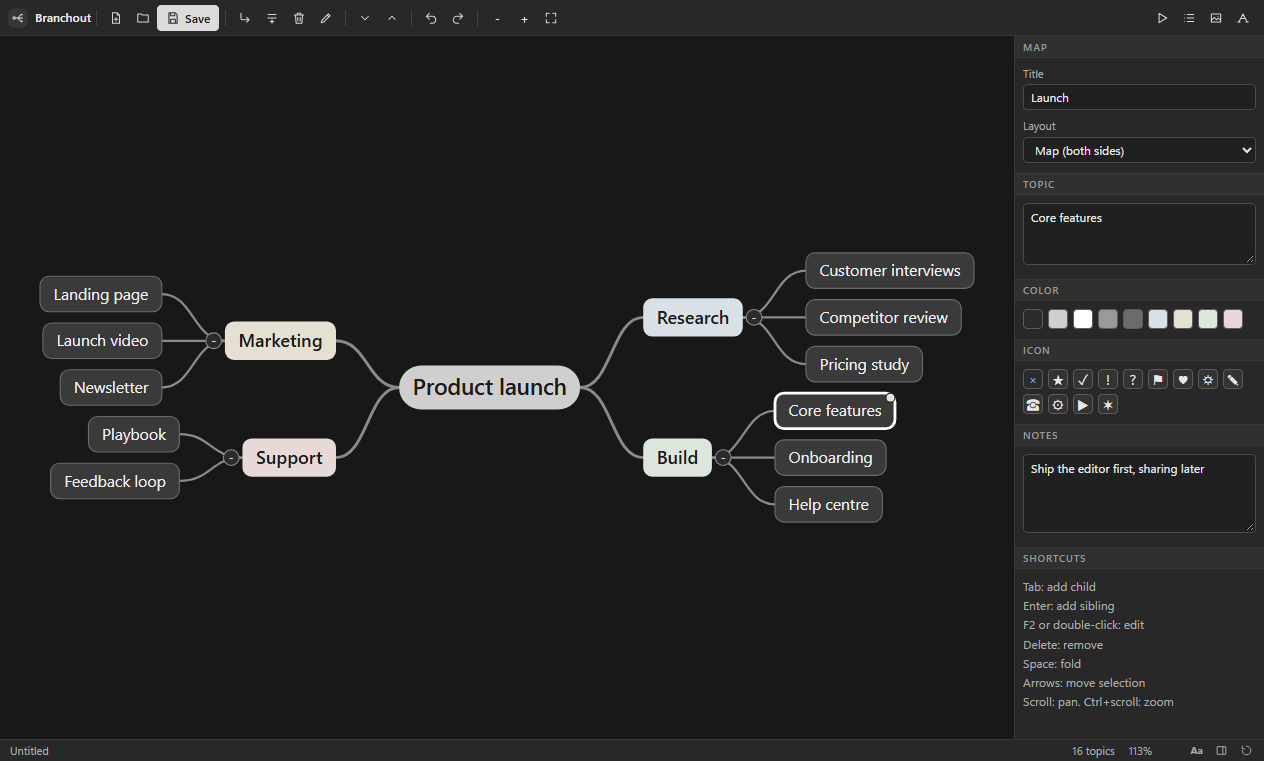
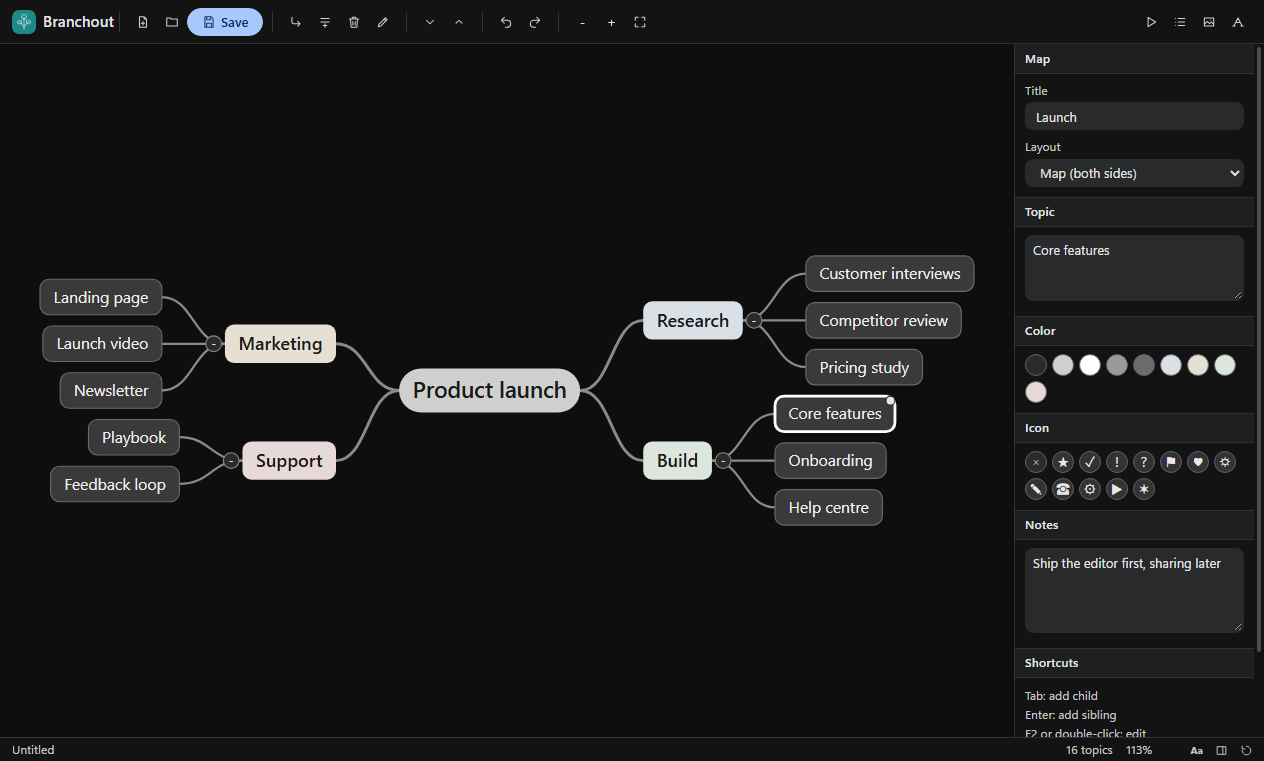
fix: Branchout 1.0.13
New Google-style look: charcoal theme, pill buttons, blue accent, colour app logo. Refreshed README and screenshots.

diff --git a/renderer/lookout.css b/renderer/lookout.css
@@ -1,68 +1,69 @@
-/* Lookout gray UI kit v3: compact pro workspace, flat, no hue. Shared by every Lookout app. */
+/* Lookout UI kit v4: Google-style dark (AI Studio / Colab / Gemini): soft surfaces, pill buttons, blue accent. Shared by every Lookout app. */
 :root{
-  --bg:#202020; --bg-2:#282828; --bg-3:#303030; --bg-4:#3a3a3a; --stage:#181818;
-  --line:#383838; --line-2:#4a4a4a; --line-3:#5c5c5c;
-  --text:#e8e8e8; --text-2:#ababab; --text-3:#9a9a9a;
-  --accent:#dcdcdc; --accent-ink:#1b1b1b; --focus:#a0a0a0;
-  --radius:4px; --h:26px; --pad:8px;
-  --font:"Segoe UI Variable Text","Segoe UI",system-ui,-apple-system,sans-serif; --mono:Consolas,"Cascadia Mono",monospace;
+  --bg:#131314; --bg-2:#1e1f20; --bg-3:#282a2c; --bg-4:#333537; --stage:#0e0e0f;
+  --line:#2f3133; --line-2:#444746; --line-3:#5f6368;
+  --text:#e3e3e3; --text-2:#c4c7c5; --text-3:#9aa0a6;
+  --accent:#a8c7fa; --accent-ink:#062e6f; --accent-2:#0b57d0; --accent-soft:#2b3a55; --focus:#a8c7fa;
+  --radius:8px; --h:28px; --pad:10px;
+  --font:"Google Sans Text","Google Sans",Roboto,"Segoe UI Variable Text","Segoe UI",system-ui,-apple-system,sans-serif; --mono:Consolas,"Cascadia Mono",monospace;
 }
 *{box-sizing:border-box;margin:0;padding:0}
-html,body{height:100%;background:var(--bg);color:var(--text);font:12px/1.4 var(--font);overflow:hidden;user-select:none;-webkit-font-smoothing:antialiased}
+html,body{height:100%;background:var(--bg);color:var(--text);font:13px/1.45 var(--font);overflow:hidden;user-select:none;-webkit-font-smoothing:antialiased}
 button,input,select,textarea{font:inherit;color:inherit}
 .app{display:grid;grid-template-rows:auto 1fr auto;height:100vh}
 
 /* ---------- toolbar ---------- */
-.toolbar{display:flex;align-items:center;gap:1px;padding:4px 8px;min-height:36px;background:var(--bg-2);border-bottom:1px solid var(--line);flex-wrap:nowrap;overflow-x:auto;overflow-y:hidden;scrollbar-width:none}
+.toolbar{display:flex;align-items:center;gap:1px;padding:6px 12px;min-height:44px;background:var(--bg);border-bottom:1px solid var(--line);flex-wrap:nowrap;overflow-x:auto;overflow-y:hidden;scrollbar-width:none}
 .toolbar::-webkit-scrollbar{height:0}
 .toolbar>*{flex-shrink:0}
-.toolbar .sep{width:1px;height:16px;align-self:center;background:var(--line-2);margin:0 5px;opacity:.8}
+.toolbar .sep{width:1px;height:20px;align-self:center;background:var(--line-2);margin:0 8px;opacity:.7}
 .toolbar .grow{flex:1 1 auto;min-width:8px}
 .toolbar input[type=text],.toolbar input[type=search]{width:150px}
-.brand{display:flex;align-items:center;gap:7px;padding-right:2px;margin-right:2px;font-weight:600;font-size:12px;color:var(--text)}
-.brand img{width:20px;height:20px;border-radius:5px;display:block}
+.brand{display:flex;align-items:center;gap:7px;padding-right:2px;margin-right:2px;font-weight:500;font-size:15px;letter-spacing:.1px;color:var(--text)}
+.brand img{width:24px;height:24px;border-radius:7px;display:block}
 .brand+.sep{margin-left:0}
 
 /* ---------- buttons ---------- */
-.btn{display:inline-flex;align-items:center;justify-content:center;gap:5px;height:var(--h);padding:0 8px;background:var(--bg-3);border:1px solid var(--line);border-radius:var(--radius);cursor:pointer;white-space:nowrap;line-height:1;transition:background .08s,border-color .08s}
-.btn:hover{background:var(--bg-4);border-color:var(--line-2)}
-.btn:active{background:#262626}
+.btn{display:inline-flex;align-items:center;justify-content:center;gap:5px;height:var(--h);padding:0 14px;background:var(--bg-3);border:1px solid transparent;border-radius:999px;cursor:pointer;white-space:nowrap;line-height:1;transition:background .08s,border-color .08s}
+.btn:hover{background:var(--bg-4)}
+.btn:active{background:#3c3f41}
 .btn:focus-visible,input:focus-visible,select:focus-visible,textarea:focus-visible,[tabindex]:focus-visible{outline:2px solid var(--focus);outline-offset:1px}
-.btn.primary{background:var(--accent);color:var(--accent-ink);border-color:var(--accent);font-weight:600}
-.btn.primary:hover{background:#ececec;border-color:#ececec}
-.btn.on{background:#4a4a4a;border-color:var(--line-3);box-shadow:inset 0 0 0 1px #6a6a6a}
+.btn.primary{background:var(--accent);color:var(--accent-ink);border-color:var(--accent);font-weight:500}
+.btn.primary:hover{background:#c2d7fb;border-color:#c2d7fb;box-shadow:0 1px 3px rgba(0,0,0,.4)}
+.btn.on{background:var(--accent-soft);color:var(--accent);border-color:transparent}
 .btn[disabled]{opacity:.45;pointer-events:none}
-.btn.icon{padding:0;width:var(--h);min-width:var(--h)}
+.btn.icon{padding:0;width:var(--h);min-width:var(--h);border-radius:50%}
 .btn .ic{width:14px;height:14px;flex-shrink:0;display:block;opacity:.92}
 .toolbar .btn:not(.primary):not(.on){background:transparent;border-color:transparent}
-.toolbar .btn:not(.primary):not(.on):hover{background:var(--bg-4);border-color:var(--line-2)}
+.toolbar .btn:not(.primary):not(.on):hover{background:var(--bg-3);border-color:transparent}
 
 /* icon-only toolbar: names live in the tooltip (Aa in the status bar brings the labels back) */
-.toolbar:not(.lbl) .btn:not(.primary):has(> svg.ic),.toolbar.c3 .btn:has(> svg.ic){font-size:0;gap:0;width:var(--h);padding:0}
+.toolbar:not(.lbl) .btn:not(.primary):has(> svg.ic),.toolbar.c3 .btn:has(> svg.ic){font-size:0;gap:0;width:var(--h);padding:0;border-radius:50%}
 .toolbar.c2 .brand span{display:none}
 .toolbar.c2 input[type=text],.toolbar.c2 input[type=search]{width:110px}
 .toolbar.lbl.c1 .btn.minor:not(.primary):has(> svg.ic),.toolbar.lbl.c2 .btn:not(.primary):has(> svg.ic){font-size:0;gap:0;width:var(--h);padding:0}
 
 /* ---------- fields ---------- */
-input[type=text],input[type=number],input[type=search],input[type=date],select,textarea{background:var(--bg);border:1px solid var(--line-2);border-radius:var(--radius);padding:0 7px;height:var(--h);user-select:text;min-width:0;font-size:12px}
+input[type=text],input[type=number],input[type=search],input[type=date],select,textarea{background:var(--bg-3);border:1px solid transparent;border-radius:var(--radius);padding:0 10px;height:var(--h);user-select:text;min-width:0;font-size:13px}
 input[type=number],.frow>input,.field>input{font-variant-numeric:tabular-nums}
 textarea{height:auto;padding:5px 7px;resize:vertical;line-height:1.4}
 select{padding-right:4px;cursor:pointer}
-input:hover,select:hover,textarea:hover{border-color:var(--line-3)}
-input[type=range]{accent-color:#c8c8c8;height:var(--h)}
-input[type=checkbox]{accent-color:#c8c8c8;width:14px;height:14px;cursor:pointer}
-input[type=color]{border:1px solid var(--line-2);background:var(--bg);width:26px;height:var(--h);padding:2px;border-radius:var(--radius)}
-label.field{display:flex;flex-direction:column;gap:3px;color:var(--text-2);font-size:11px}
-label.field>input,label.field>select,label.field>textarea{width:100%;color:var(--text);font-size:12px}
+input:hover,select:hover,textarea:hover{background:var(--bg-4)}
+input[type=text]:focus,input[type=number]:focus,input[type=search]:focus,input[type=date]:focus,select:focus,textarea:focus{outline:none;border-color:var(--accent);background:var(--bg-2)}
+input[type=range]{accent-color:#a8c7fa;height:var(--h)}
+input[type=checkbox]{accent-color:#a8c7fa;width:14px;height:14px;cursor:pointer}
+input[type=color]{border:1px solid var(--line-2);background:var(--bg-3);width:26px;height:var(--h);padding:2px;border-radius:var(--radius)}
+label.field{display:flex;flex-direction:column;gap:3px;color:var(--text-2);font-size:12px}
+label.field>input,label.field>select,label.field>textarea{width:100%;color:var(--text);font-size:13px}
 
 /* ---------- layout ---------- */
 .main{display:flex;min-height:0;min-width:0}
-.sidebar{width:210px;background:var(--bg-2);border-right:1px solid var(--line);overflow:auto;padding:var(--pad);flex-shrink:0;min-width:0}
+.sidebar{width:210px;background:var(--bg);border-right:1px solid var(--line);overflow:auto;padding:var(--pad);flex-shrink:0;min-width:0}
 .sidebar.right{border-right:0;border-left:1px solid var(--line);width:250px}
 .sidebar.collapsed{display:none!important}
-.sidebar h3,.panel-title{font-size:10px;text-transform:uppercase;letter-spacing:.09em;color:var(--text-3);font-weight:600}
+.sidebar h3,.panel-title{font-size:12px;letter-spacing:.2px;color:var(--text-2);font-weight:500}
 .sidebar h3{margin:12px 0 6px}
-.sidebar>h3{display:flex;align-items:center;gap:6px;height:22px;margin:10px calc(var(--pad) * -1) 8px;padding:0 var(--pad);background:var(--bg-3);border-top:1px solid var(--line);border-bottom:1px solid var(--line)}
+.sidebar>h3{display:flex;align-items:center;gap:6px;height:30px;margin:10px calc(var(--pad) * -1) 8px;padding:0 var(--pad);background:var(--bg-2);border-top:1px solid var(--line);border-bottom:1px solid var(--line);color:var(--text)}
 .sidebar>h3:first-child{margin-top:calc(var(--pad) * -1);border-top:0}
 .panel-title{margin:12px 0 6px}
 .sidebar input[type=text],.sidebar input[type=search],.sidebar select,.sidebar textarea{width:100%}
@@ -73,20 +74,20 @@ label.field>input,label.field>select,label.field>textarea{width:100%;color:var(-
 .sidebar .btn{width:auto}
 .sidebar>.btn{width:100%;margin-bottom:5px}
 .stage{flex:1;min-width:0;min-height:0;position:relative;background:var(--stage);overflow:auto}
-.status{display:flex;gap:14px;align-items:center;height:22px;padding:0 10px;background:var(--bg-2);border-top:1px solid var(--line);color:var(--text-2);font-size:11px;white-space:nowrap;overflow:hidden}
+.status{display:flex;gap:14px;align-items:center;height:24px;padding:0 12px;background:var(--bg);border-top:1px solid var(--line);color:var(--text-2);font-size:12px;white-space:nowrap;overflow:hidden}
 .status .grow{flex:1}
 body.hasdock .status{padding-right:112px}
-.wbs{position:fixed;right:6px;bottom:2px;height:18px;display:flex;gap:2px;z-index:8;background:var(--bg-2);padding-left:6px}
+.wbs{position:fixed;right:6px;bottom:2px;height:18px;display:flex;gap:2px;z-index:8;background:var(--bg);padding-left:6px}
 .wbs[hidden]{display:none}
-.wbs .wb{height:18px;min-width:22px;padding:0 4px;display:inline-flex;align-items:center;justify-content:center;font-size:10px;font-weight:700;line-height:1;background:transparent;border:1px solid transparent;border-radius:3px;color:var(--text-2);cursor:pointer}
+.wbs .wb{height:18px;min-width:22px;padding:0 4px;display:inline-flex;align-items:center;justify-content:center;font-size:10px;font-weight:700;line-height:1;background:transparent;border:1px solid transparent;border-radius:6px;color:var(--text-2);cursor:pointer}
 .wbs .wb[hidden]{display:none}
 .wbs .wb svg{width:13px;height:13px;display:block}
-.wbs .wb:hover{background:var(--bg-4);border-color:var(--line-2);color:var(--text)}
-.wbs .wb.on{background:var(--bg-4);border-color:var(--line-3);color:var(--text)}
+.wbs .wb:hover{background:var(--bg-3);color:var(--text)}
+.wbs .wb.on{background:var(--accent-soft);color:var(--accent)}
 .list{display:flex;flex-direction:column;gap:1px}
-.list .item{padding:3px 6px;border-radius:var(--radius);cursor:pointer;border:1px solid transparent;display:flex;gap:6px;align-items:center;min-height:26px}
+.list .item{padding:3px 10px;border-radius:999px;cursor:pointer;border:1px solid transparent;display:flex;gap:6px;align-items:center;min-height:26px}
 .list .item:hover{background:var(--bg-3)}
-.list .item.sel{background:var(--bg-4);border-color:var(--line-2)}
+.list .item.sel{background:var(--accent-soft);color:var(--accent);border-color:transparent}
 .row{display:flex;gap:5px;align-items:center}
 .grow{flex:1 1 auto;min-width:0}
 .brow{display:grid;grid-template-columns:1fr 1fr;gap:5px;margin-bottom:5px}
@@ -99,17 +100,17 @@ body.hasdock .status{padding-right:112px}
 .sidebar .swatches{margin-bottom:8px}
 .list .item .btn{height:22px!important;width:24px!important;padding:0!important;font-size:0!important;gap:0;background:transparent;border-color:transparent;opacity:.55}
 .list .item:hover .btn,.list .item.sel .btn{opacity:1}
-.list .item .btn:hover{background:var(--bg-4);border-color:var(--line-2)}
+.list .item .btn:hover{background:var(--bg-4)}
 .col{display:flex;flex-direction:column;gap:5px}
 .muted{color:var(--text-2)}
 .empty{position:absolute;inset:0;display:flex;flex-direction:column;align-items:center;justify-content:center;gap:10px;color:var(--text-3);text-align:center;padding:24px}
-.empty .big{font-size:16px;color:var(--text-2);font-weight:600}
+.empty .big{font-size:20px;color:var(--text);font-weight:400}
 
 /* panel grip: drag to resize, double-click to collapse or restore */
 .grip{position:relative;flex:0 0 5px;width:5px;margin:0 -3px 0 -2px;z-index:6;cursor:col-resize;touch-action:none}
 .grip::after{content:"";position:absolute;top:0;bottom:0;left:2px;width:1px;background:transparent;transition:background .1s}
-.grip:hover::after,.grip.drag::after{background:var(--line-3);width:2px;left:1px}
-.grip.collapsed{flex:0 0 8px;width:8px;margin:0;background:var(--bg-2);border-left:1px solid var(--line);border-right:1px solid var(--line)}
+.grip:hover::after,.grip.drag::after{background:var(--accent);width:2px;left:1px}
+.grip.collapsed{flex:0 0 8px;width:8px;margin:0;background:var(--bg);border-left:1px solid var(--line);border-right:1px solid var(--line)}
 .grip.collapsed::after{left:3px;top:calc(50% - 14px);bottom:auto;height:28px;width:2px;background:var(--line-3);border-radius:2px}
 .grip.collapsed:hover{background:var(--bg-3)}
 body.gripping{cursor:col-resize}
@@ -117,30 +118,30 @@ body.gripping *{cursor:col-resize!important;user-select:none!important}
 
 /* ---------- overlays ---------- */
 .modal-back{position:fixed;inset:0;background:rgba(0,0,0,.6);display:flex;align-items:center;justify-content:center;z-index:50}
-.modal{background:var(--bg-2);border:1px solid var(--line-2);border-radius:8px;min-width:340px;max-width:80vw;max-height:85vh;overflow:auto;padding:16px;display:flex;flex-direction:column;gap:12px;box-shadow:0 18px 50px rgba(0,0,0,.5)}
-.modal h2{font-size:14px;font-weight:600}
-.toast{position:fixed;left:50%;bottom:34px;transform:translateX(-50%);background:var(--bg-4);border:1px solid var(--line-3);padding:7px 14px;border-radius:6px;z-index:60;box-shadow:0 8px 24px rgba(0,0,0,.4)}
-.progress{height:5px;background:var(--bg);border:1px solid var(--line);border-radius:4px;overflow:hidden}
+.modal{background:var(--bg-2);border:0;border-radius:24px;min-width:360px;max-width:80vw;max-height:85vh;overflow:auto;padding:24px;display:flex;flex-direction:column;gap:14px;box-shadow:0 8px 32px rgba(0,0,0,.6)}
+.modal h2{font-size:20px;font-weight:400}
+.toast{position:fixed;left:50%;bottom:34px;transform:translateX(-50%);background:#e3e3e3;color:#1f1f1f;border:0;padding:10px 18px;border-radius:8px;z-index:60;box-shadow:0 8px 24px rgba(0,0,0,.4)}
+.progress{height:6px;background:var(--bg-3);border:0;border-radius:999px;overflow:hidden}
 .progress>i,.progress>div{display:block;height:100%;background:var(--accent);width:0}
 
 /* ---------- tables ---------- */
 table.grid{border-collapse:separate;border-spacing:0;width:100%}
 table.grid th,table.grid td{border-bottom:1px solid var(--line);padding:0 10px;height:30px;text-align:left;vertical-align:middle}
-table.grid th{background:var(--bg-2);color:var(--text-2);font-weight:600;font-size:11px;position:sticky;top:0;z-index:1;height:26px}
-table.grid tbody tr:hover td{background:#242424}
-table.grid tr.sel td{background:#323232}
+table.grid th{background:var(--bg-2);color:var(--text-2);font-weight:500;font-size:12px;position:sticky;top:0;z-index:1;height:26px}
+table.grid tbody tr:hover td{background:var(--bg-2)}
+table.grid tr.sel td{background:var(--accent-soft)}
 table.grid tbody tr{cursor:default}
 table.grid td .btn{height:22px;margin-left:6px;vertical-align:middle}
 table.grid td{white-space:nowrap}
 
 /* ---------- misc ---------- */
 ::-webkit-scrollbar{width:10px;height:10px}
-::-webkit-scrollbar-thumb{background:#454545;border:3px solid transparent;background-clip:padding-box;border-radius:8px}
-::-webkit-scrollbar-thumb:hover{background:#5a5a5a;background-clip:padding-box;border:3px solid transparent}
+::-webkit-scrollbar-thumb{background:#4a4d50;border:3px solid transparent;background-clip:padding-box;border-radius:8px}
+::-webkit-scrollbar-thumb:hover{background:#6b6f73;background-clip:padding-box;border:3px solid transparent}
 ::-webkit-scrollbar-track,::-webkit-scrollbar-corner{background:transparent}
 .swatches{display:flex;flex-wrap:wrap;gap:5px}
-.swatches button{width:20px;height:20px;border:1px solid var(--line-3);border-radius:4px;cursor:pointer;padding:0}
+.swatches button{width:22px;height:22px;border:1px solid var(--line-3);border-radius:50%;cursor:pointer;padding:0}
 .swatches button.on{outline:2px solid var(--accent);outline-offset:2px}
-kbd{font-family:var(--mono);font-size:10px;background:var(--bg-3);border:1px solid var(--line-2);border-bottom-width:2px;border-radius:3px;padding:0 4px}
+kbd{font-family:var(--mono);font-size:10px;background:var(--bg-3);border:1px solid var(--line-2);border-bottom-width:2px;border-radius:4px;padding:0 5px}
 
 input::placeholder,textarea::placeholder{color:var(--text-3);opacity:1}

diff --git a/README.md b/README.md
@@ -1,8 +1,10 @@
-<p align="center"><img src="screenshots/banner.png" alt="Branchout" width="100%"></p>
+<p align="center"><img src="screenshots/logo.png" alt="Branchout" width="128"></p>
 
-<p align="center"><b>Mind maps and outlines</b><br>Version 1.0.3 for Windows · Free · Offline · No account</p>
+<h1 align="center">Branchout</h1>
 
-<p align="center"><a href="https://github.com/plawanpawin-byte/branchout/releases/latest"><b>Download Branchout</b></a> · <a href="https://github.com/plawanpawin-byte/Lookout">All Lookout apps</a></p>
+<p align="center"><b>Mind maps and outlines</b><br>Version 1.0.13 for Windows · Free · Offline · No account</p>
+
+<p align="center"><a href="https://github.com/plawanpawin-byte/branchout/releases/latest"><b>Download Branchout</b></a> · <a href="https://github.com/plawanpawin-byte/lookout-launcher">Lookout launcher</a> · <a href="https://github.com/plawanpawin-byte/Lookout">All Lookout apps</a></p>
 
 ---
 
@@ -12,11 +14,51 @@ Branchout is a mind-mapping app. Start with one idea in the centre, branch out w
 
 ![Branchout](screenshots/01-mind-map.png)
 
-**On this page:** [Screenshots](#see-it-in-action) · [Interface](#the-interface) · [Features](#everything-it-can-do) · [How to use it](#how-to-use-it) · [Shortcuts](#keyboard-shortcuts) · [Formats](#files-and-formats) · [Privacy](#private-by-design) · [Install](#install) · [Questions](#questions)
+**On this page:** [In plain words](#in-plain-words) · [Who it is for](#who-it-is-for) · [Try it in 3 steps](#try-it-in-3-steps) · [Screenshots](#see-it-in-action) · [Features](#everything-it-can-do) · [How to use it](#how-to-use-it) · [Privacy](#private-by-design) · [Install](#install) · [Questions](#questions)
 
-## What is new in 1.0.3
+## In plain words
 
-A refreshed interface: every toolbar button now has a clear line icon, the app's mark sits at the top left, controls share one height and spacing, panels line up in tidy grids, and the toolbar keeps every button reachable on smaller windows by switching less important buttons to icons.
+Branchout is a **mind-mapping** program. A mind map starts with one idea in the middle (for example "Holiday plan"). From it you grow branches ("Flights", "Hotels", "Food"), and from each branch you grow smaller branches. It is a way of thinking that looks like a tree and is much easier to scan than a long list.
+
+You build it mostly from the keyboard: press a key to add a topic next to or under the current one, type a name, and keep going. You can add notes, colours and icons, **collapse** branches you are not working on, and finally turn the whole map into a picture or a plain-text **outline** you can paste into an email.
+
+**Not for:** Branchout shows one idea tree. For boxes and arrows between any shapes use Chartout, and for tasks with dates use Planout.
+
+## Who it is for
+
+- **Anyone planning something**: a trip, an essay, a presentation, a project.
+- **Students** summarising a chapter as a map for revision.
+- **Writers** who start with ideas and want to turn them into a structured outline.
+
+## Try it in 3 steps
+
+1. Open Branchout and type a name for the centre topic.
+2. Press **Tab** to add a child topic under the selected one, or **Enter** to add a sibling beside it.
+3. Choose an outline export to see your map as an indented list of text.
+
+## What is new in 1.0.13
+
+A new look inspired by Google's own tools (AI Studio, Colab, Gemini): a calm dark charcoal theme, rounded pill buttons, a soft blue accent and roomier spacing. The app icon is now a colour logo so you can find Branchout at a glance in the Start menu and in the Lookout launcher. All screenshots below were taken again with the new look.
+
+## In plain words
+
+Branchout is a **mind-mapping** program. A mind map starts with one idea in the middle (for example "Holiday plan"). From it you grow branches ("Flights", "Hotels", "Food"), and from each branch you grow smaller branches. It is a way of thinking that looks like a tree and is much easier to scan than a long list.
+
+You build it mostly from the keyboard: press a key to add a topic next to or under the current one, type a name, and keep going. You can add notes, colours and icons, **collapse** branches you are not working on, and finally turn the whole map into a picture or a plain-text **outline** you can paste into an email.
+
+**Not for:** Branchout shows one idea tree. For boxes and arrows between any shapes use Chartout, and for tasks with dates use Planout.
+
+## Who it is for
+
+- **Anyone planning something**: a trip, an essay, a presentation, a project.
+- **Students** summarising a chapter as a map for revision.
+- **Writers** who start with ideas and want to turn them into a structured outline.
+
+## Try it in 3 steps
+
+1. Open Branchout and type a name for the centre topic.
+2. Press **Tab** to add a child topic under the selected one, or **Enter** to add a sibling beside it.
+3. Choose an outline export to see your map as an indented list of text.
 
 ## See it in action
 
@@ -115,7 +157,7 @@ Saves .branchout files. Exports PNG, SVG and a Markdown or plain text outline.
 
 ## Install
 
-1. Open the [latest release](https://github.com/plawanpawin-byte/branchout/releases/latest) and download the file named **Branchout-Setup-** followed by the version number and **.exe**. You can also install it from the [Lookout launcher](https://github.com/${OWNER}/lookout-launcher), which keeps it up to date.
+1. Open the [latest release](https://github.com/plawanpawin-byte/branchout/releases/latest) and download the file named **Branchout-Setup-** followed by the version number and **.exe**. You can also install it from the [Lookout launcher](https://github.com/plawanpawin-byte/lookout-launcher), which keeps it up to date.
 2. Run the installer. It installs just for you, so it does not ask for administrator rights.
 3. Windows may show a blue **Windows protected your PC** screen because these installers are not signed with a paid certificate. Click **More info**, then **Run anyway**.
 4. Open Branchout from the Start menu.
@@ -130,18 +172,40 @@ Hundreds are comfortable. The counter in the bottom bar shows how many you have.
 **Can I import from another mind-map app?**  
 Not yet. You can type or paste your topics in as you go.
 
+**What is an outline export?**  
+A text version of your map where each level is indented, ready to paste into a document or email.
+
+**How do I rename a topic?**  
+Select it and press F2, or double-click it.
+
+**How do I keep a big map readable?**  
+Select a branch and press Space to fold it away. Press Space again to open it.
+
+**What is an outline export?**  
+A text version of your map where each level is indented, ready to paste into a document or email.
+
+**How do I rename a topic?**  
+Select it and press F2, or double-click it.
+
+**How do I keep a big map readable?**  
+Select a branch and press Space to fold it away. Press Space again to open it.
+
 ## About Lookout
 
-Branchout belongs to the **[Lookout](https://github.com/plawanpawin-byte/Lookout)** family: ten small, private Windows apps for documents and media, all with the same calm grey look and the same promise that your files stay yours. Install and update them together with the [Lookout launcher](https://github.com/plawanpawin-byte/lookout-launcher).
+Branchout is part of **[Lookout](https://github.com/plawanpawin-byte/Lookout)**: ten small, private Windows apps for documents and media that share one look and one promise, that your files stay on your computer. Install and update them together with the [Lookout launcher](https://github.com/plawanpawin-byte/lookout-launcher).
 
-- **[Pageout](https://github.com/plawanpawin-byte/pageout)**: read, annotate and sign pdfs
-- **[Chartout](https://github.com/plawanpawin-byte/chartout)**: flowcharts and diagrams
-- **[Planout](https://github.com/plawanpawin-byte/planout)**: plans and gantt timelines
-- **[Frameout](https://github.com/plawanpawin-byte/frameout)**: screen design and prototypes
-- **[Cutout](https://github.com/plawanpawin-byte/cutout)**: video editing on a timeline
-- **[Shiftout](https://github.com/plawanpawin-byte/shiftout)**: convert and compress media
-- **[Castout](https://github.com/plawanpawin-byte/castout)**: record your screen
-- **[Mendout](https://github.com/plawanpawin-byte/mendout)**: repair damaged media
-- **[Tuneout](https://github.com/plawanpawin-byte/tuneout)**: record and edit audio
+| | App | What it is for | Code |
+| --- | --- | --- | --- |
+| <img src="https://raw.githubusercontent.com/plawanpawin-byte/lookout-launcher/main/build/icon.png" width="32" alt="Lookout"> | **Lookout** | Install, open and update all the apps below | [GitHub](https://github.com/plawanpawin-byte/lookout-launcher) |
+| <img src="https://raw.githubusercontent.com/plawanpawin-byte/pageout/main/build/icon.png" width="32" alt="Pageout"> | **Pageout** | Read, annotate and sign PDFs | [GitHub](https://github.com/plawanpawin-byte/pageout) |
+| <img src="https://raw.githubusercontent.com/plawanpawin-byte/chartout/main/build/icon.png" width="32" alt="Chartout"> | **Chartout** | Flowcharts, org charts and diagrams | [GitHub](https://github.com/plawanpawin-byte/chartout) |
+| <img src="https://raw.githubusercontent.com/plawanpawin-byte/branchout/main/build/icon.png" width="32" alt="Branchout"> | **Branchout** | Mind maps and outlines | [GitHub](https://github.com/plawanpawin-byte/branchout) |
+| <img src="https://raw.githubusercontent.com/plawanpawin-byte/planout/main/build/icon.png" width="32" alt="Planout"> | **Planout** | Project plans and Gantt timelines | [GitHub](https://github.com/plawanpawin-byte/planout) |
+| <img src="https://raw.githubusercontent.com/plawanpawin-byte/frameout/main/build/icon.png" width="32" alt="Frameout"> | **Frameout** | App and web screen design with click-through prototypes | [GitHub](https://github.com/plawanpawin-byte/frameout) |
+| <img src="https://raw.githubusercontent.com/plawanpawin-byte/cutout/main/build/icon.png" width="32" alt="Cutout"> | **Cutout** | Video editing on a timeline | [GitHub](https://github.com/plawanpawin-byte/cutout) |
+| <img src="https://raw.githubusercontent.com/plawanpawin-byte/shiftout/main/build/icon.png" width="32" alt="Shiftout"> | **Shiftout** | Convert and compress video and audio, make GIFs | [GitHub](https://github.com/plawanpawin-byte/shiftout) |
+| <img src="https://raw.githubusercontent.com/plawanpawin-byte/castout/main/build/icon.png" width="32" alt="Castout"> | **Castout** | Record your screen | [GitHub](https://github.com/plawanpawin-byte/castout) |
+| <img src="https://raw.githubusercontent.com/plawanpawin-byte/mendout/main/build/icon.png" width="32" alt="Mendout"> | **Mendout** | Check and repair damaged video, audio, pictures and PDFs | [GitHub](https://github.com/plawanpawin-byte/mendout) |
+| <img src="https://raw.githubusercontent.com/plawanpawin-byte/tuneout/main/build/icon.png" width="32" alt="Tuneout"> | **Tuneout** | Record and edit audio | [GitHub](https://github.com/plawanpawin-byte/tuneout) |
 
 Released under the MIT License.
